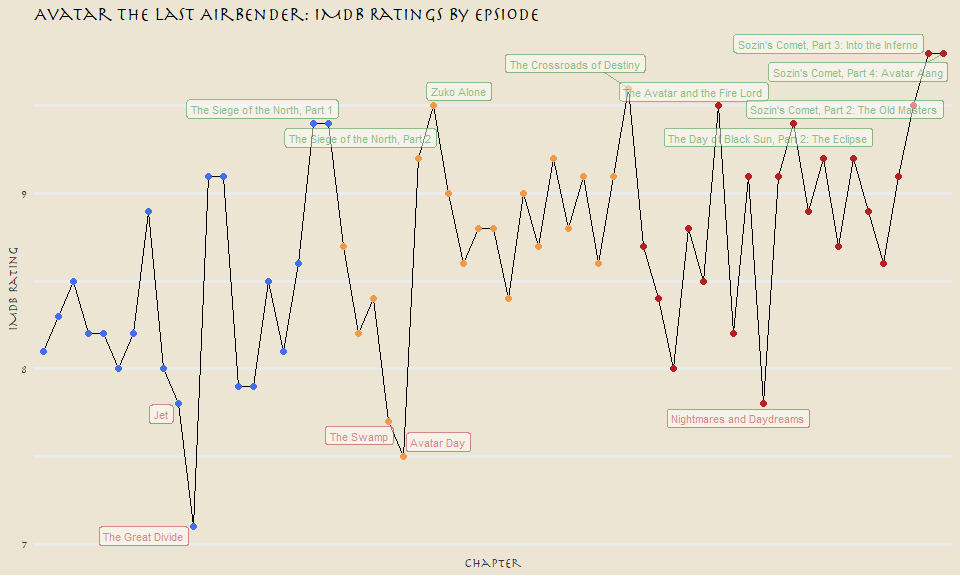
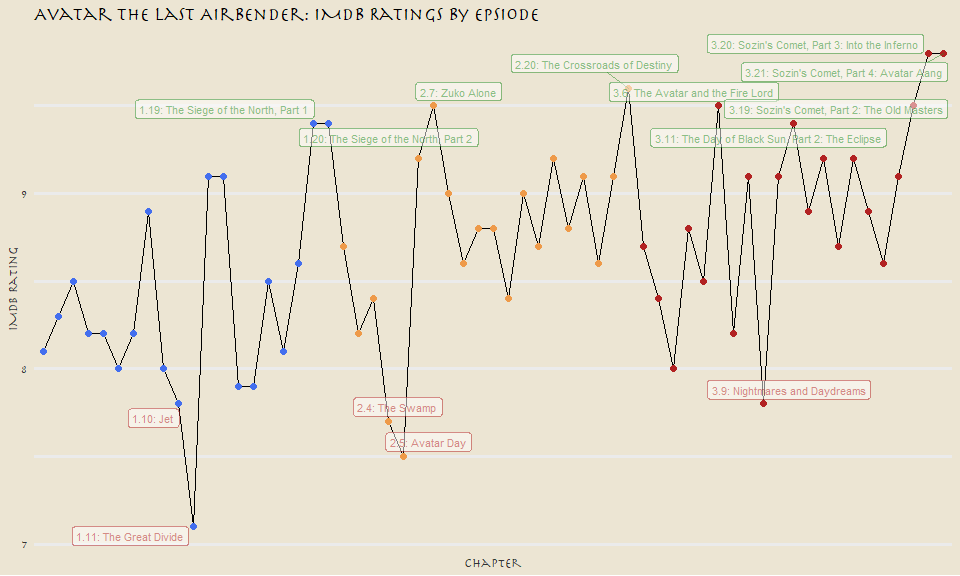
reknit md

diff --git a/avatar_20200811/avatar_analysis.md b/avatar_20200811/avatar_analysis.md
@@ -5,8 +5,8 @@ Nick Cruickshank
 ![](images/astral_avatar.jpg)
 
 The following analysis was performed on the Avatar: the Last Airbender
-script, as compiled by the r4ds tidytuesday community. The core dataset
-(`avatar.csv`), consists of the following variables:
+(ATLA) script, as compiled by the r4ds tidytuesday community. The core
+dataset (`avatar.csv`), consists of the following variables:
 
 | variable         | class     | description                                   |
 | ---------------- | --------- | --------------------------------------------- |
@@ -115,6 +115,9 @@ as_tibble(avatar) %>% head(5)
 #### IMDb Rating Distribution
 
 ``` r
+# font used in Avatar: the Last Airbender
+##font_import(pattern = "herculanum.ttf")
+
 # values to be expressed in the following plot
 # worst episode
 worst_ep <- eps %>%
@@ -164,18 +167,7 @@ eps %>%
 
 ![](avatar_analysis_files/figure-gfm/episode%20breakdown-1.png)<!-- -->
 
-### Director and Writer Analysis
-
-Which directors or writers were associated with the most succesful
-episodes of Avatar?
-
-### “Cabbages” Trending
-
-Track the running joke for the “MY CABBAGES” joke.
-
-### Zuko Transformation Analysis
-
-### IMDb Ratings Over Time
+#### IMDb Ratings Over Time
 
 ``` r
 eps %>%
@@ -190,14 +182,14 @@ eps %>%
   )) +
   ggrepel::geom_label_repel(
     data = filter(eps, imdb_rating >= 9.4),
-    aes(label = chapter),
+    aes(label = paste0(book_num, sep = ".", chapter_num, sep = ": ", chapter)),
     size = 3,
     alpha = 0.5,
     color = "forestgreen"
   ) +
   ggrepel::geom_label_repel(
     data = filter(eps, imdb_rating <= 7.8),
-    aes(label = chapter),
+    aes(label = paste0(book_num, sep = ".", chapter_num, sep = ": ", chapter)),
     size = 3,
     alpha = 0.5,
     color = "firebrick"
@@ -219,10 +211,7 @@ eps %>%
 
 ![](avatar_analysis_files/figure-gfm/ratings%20over%20time-1.png)<!-- -->
 
-## Which characters had the most lines?
-
-For each line of each episode, create a column which counts the number
-of words (excluding stop words?) that line contains.
+### Which characters had the most lines?
 
 ``` r
 # define strings to trim from dataset.
@@ -236,14 +225,19 @@ character_words <- avatar %>%
   dplyr::summarise(
     words = wordcount(character_words)
   )
-  #mutate(words = wordcount(character_words)) #doesn't work right, appears to work within a summarise
 ```
+
+Given that Aang, Katara, and Sokka are the main characters throughout
+the entire series, it is no surprise that they have the most overall
+words spoken throughout the show. Zuko fetured much more prominently in
+Book 3 because (SPOILER) he joined “Team Avatar” and became a good guy.
+Conversely Iroh was featured *less* prominently in Book 3 due in part to
+the direction the story took and in part to the fact that the original
+voice actor [died](https://en.wikipedia.org/wiki/Mako_\(actor\)) and was
+replaced with Greg Baldwin for Book 3.
 
 ``` r
 main_characters <- c("Aang", "Azula", "Iroh", "Katara", "Sokka", "Toph", "Zuko")
-
-#font_import(pattern = "herculanum.ttf", paths = "C:\\Windows\\Fonts\\", prompt = F)
-#font_import(prompt = F)
 
 character_words %>%
   filter(character %in% main_characters) %>%
@@ -264,32 +258,50 @@ character_words %>%
     y = "Total Words"
   ) +
   theme_avatar(title.font = "Herculanum",
-               text.font = "Herculanum")
+               text.font = "Herculanum") + 
+  theme(
+    panel.grid = element_blank()
+  )
 ```
 
 ![](avatar_analysis_files/figure-gfm/word%20count%20distribution-1.png)<!-- -->
 
-### Transcripts
+### TF-IDF Analysis
+
+TF-IDF (term frequency-inverse document frequency) is one of the most
+popular term-weighing schemes used in text mining today. Briefly, it is
+a statistical measure of how import a term is in a document (i.e. the
+lines of a character in a TV show) relatve to the entire corpus
+(i.e. the entire script of that TV show) the document resides in. The
+‘inverse document frequency’ aspect of the measure helps to devalue
+words which appear commonly in general throughout the entire corpus and
+are not specific to any one document. For example, all characters in
+ATLA are likely to use the word “bending” (the magic system in the ATLA
+universe), so that word would be unlikely to have a high TF-IDF score
+for any given characer. In general, the top terms as ranked by TF-IDF
+value can be considered “signature” phrases for that character.
 
 ``` r
+#additional words to add to the list of stop_words
 blacklist <- c("hey", "yeah", "guys", "gonna")
 
+#reshape the dataframe for TF-IDF analysis
 script_words <- avatar %>%
-  add_count(character) %>%
-  filter(n >= 50) %>%
-  select(-full_text) %>%
+  add_count(character) %>% #add a column adding all lines per character
+  filter(n >= 50) %>% #filter out any characters who have too few lines
+  select(-full_text) %>% #trim duplicate less-tidy column for script
   filter(!(grepl(c(intro1,intro2), character_words)),
-         character != "Scene Description") %>%
-  unnest_tokens(word, character_words) %>%
-  anti_join(stop_words, by = "word") %>%
-  filter(!(word %in% blacklist))
+         character != "Scene Description") %>% #filter misleading lines
+  unnest_tokens(word, character_words) %>% #separate each line into individual tokens (words)
+  anti_join(stop_words, by = "word") %>% #remove stopwords
+  filter(!(word %in% blacklist)) #remove extra stopwords
 
 character_tf_idf <- script_words %>%
-  add_count(word) %>%
-  filter(n >= 5) %>%
-  count(word, character) %>%
-  bind_tf_idf(word, character, n) %>%
-  arrange(desc(tf_idf))
+  add_count(word) %>% #add count for how often each word appears
+  filter(n >= 5) %>% #filter out words that occur infrequently
+  count(word, character) %>% #create a column counting each token by character
+  bind_tf_idf(word, character, n) %>% #create TF-IDF scores
+  arrange(desc(tf_idf)) #rearrange rows
 ```
 
 ``` r
@@ -313,60 +325,26 @@ character_tf_idf %>%
     "Water Tribe" = "royalblue2",
     "Air Nomads" = "gold2"
   )) +
+  geom_text(aes(label = round(tf_idf, 3)), size = 2.5, hjust = 1) +
   coord_flip() + 
   scale_x_reordered() +
   facet_wrap(~ character, scales = "free_y", ncol = 4) + 
   labs(
-    title = "TF-IDF Character Analysis",
-    subtitle = "Which words are most specific to each character?",
+    title = "Avatar: the Last Airbender - TF-IDF Character Analysis",
+    subtitle = "What are the signature words for each character?",
     x = "",
     y = "TF-IDF of character-word pairs"
   ) + 
   theme_avatar(title.font = "Herculanum",
                text.font = "Herculanum") + 
   theme(
-    axis.text.x = element_text(angle = 45, hjust = 1)
+    #axis.text.x = element_text(angle = 45, hjust = 1),
+    panel.grid = element_blank(),
+    axis.text.x = element_blank()
   )
 ```
 
 ![](avatar_analysis_files/figure-gfm/tf_idf%20by%20main%20character-1.png)<!-- -->
-
-### Machine learning model
-
-What affects popularity of an episode: - Season/time - Director - Writer
-- Lines per character
-
-``` r
-avatar %>%
-  count(chapter, character) 
-```
-
-    ## # A tibble: 964 x 3
-    ##    chapter          character             n
-    ##    <chr>            <chr>             <int>
-    ##  1 Appa's Lost Days Aang                  4
-    ##  2 Appa's Lost Days Azula                 5
-    ##  3 Appa's Lost Days Farmer                1
-    ##  4 Appa's Lost Days Fire Nation man       3
-    ##  5 Appa's Lost Days Ghashiun              6
-    ##  6 Appa's Lost Days Iio                   1
-    ##  7 Appa's Lost Days Iroh                  1
-    ##  8 Appa's Lost Days Kyoshi Warrior #1     2
-    ##  9 Appa's Lost Days Kyoshi Warrior #2     1
-    ## 10 Appa's Lost Days Mai                   2
-    ## # ... with 954 more rows
-
-Pivot the dataframe wider, so each character gets a column whose values
-are the number of words they had in the episode.
-
-Apply the same logic for each writer and director, but instead the
-column is boolean (i.e. If writer one is in s1e1, than the column value
-is 1 for that episode, else 0).
-
-Train-test split the resulting dataframe, with IMDb rating as the
-y-value.
-
-Assess numerous different models for accuracy.
 
 ## Machine Learning
 
@@ -539,7 +517,7 @@ df %>%
                text.font = "Herculanum")
 ```
 
-![](avatar_analysis_files/figure-gfm/unnamed-chunk-10-1.png)<!-- -->
+![](avatar_analysis_files/figure-gfm/unnamed-chunk-9-1.png)<!-- -->
 
 ## Training the model
 
@@ -592,20 +570,20 @@ lasso_fit %>%
   tidy()
 ```
 
-    ## # A tibble: 2,042 x 5
+    ## # A tibble: 2,546 x 5
     ##    term         step estimate lambda dev.ratio
     ##    <chr>       <dbl>    <dbl>  <dbl>     <dbl>
-    ##  1 (Intercept)     1   8.69    0.359    0     
-    ##  2 (Intercept)     2   8.69    0.327    0.0590
-    ##  3 katara          2  -0.0322  0.327    0.0590
-    ##  4 (Intercept)     3   8.69    0.298    0.108 
-    ##  5 katara          3  -0.0616  0.298    0.108 
-    ##  6 (Intercept)     4   8.69    0.272    0.149 
-    ##  7 katara          4  -0.0883  0.272    0.149 
-    ##  8 (Intercept)     5   8.69    0.247    0.183 
-    ##  9 katara          5  -0.113   0.247    0.183 
-    ## 10 (Intercept)     6   8.69    0.225    0.211 
-    ## # ... with 2,032 more rows
+    ##  1 (Intercept)     1   8.75    0.280    0     
+    ##  2 (Intercept)     2   8.75    0.256    0.0472
+    ##  3 katara          2  -0.0252  0.256    0.0472
+    ##  4 (Intercept)     3   8.75    0.233    0.0863
+    ##  5 katara          3  -0.0481  0.233    0.0863
+    ##  6 (Intercept)     4   8.75    0.212    0.119 
+    ##  7 katara          4  -0.0690  0.212    0.119 
+    ##  8 (Intercept)     5   8.75    0.193    0.146 
+    ##  9 katara          5  -0.0880  0.193    0.146 
+    ## 10 (Intercept)     6   8.75    0.176    0.184 
+    ## # ... with 2,536 more rows
 
 tune the lasso model
 
@@ -646,18 +624,18 @@ lasso_grid %>%
 ```
 
     ## # A tibble: 100 x 6
-    ##     penalty .metric .estimator  mean     n std_err
-    ##       <dbl> <chr>   <chr>      <dbl> <int>   <dbl>
-    ##  1 1.00e-10 rmse    standard   3.35     25  0.696 
-    ##  2 1.00e-10 rsq     standard   0.135    25  0.0274
-    ##  3 1.60e-10 rmse    standard   3.35     25  0.696 
-    ##  4 1.60e-10 rsq     standard   0.135    25  0.0274
-    ##  5 2.56e-10 rmse    standard   3.35     25  0.696 
-    ##  6 2.56e-10 rsq     standard   0.135    25  0.0274
-    ##  7 4.09e-10 rmse    standard   3.35     25  0.696 
-    ##  8 4.09e-10 rsq     standard   0.135    25  0.0274
-    ##  9 6.55e-10 rmse    standard   3.35     25  0.696 
-    ## 10 6.55e-10 rsq     standard   0.135    25  0.0274
+    ##     penalty .metric .estimator   mean     n std_err
+    ##       <dbl> <chr>   <chr>       <dbl> <int>   <dbl>
+    ##  1 1.00e-10 rmse    standard   3.82      25  1.41  
+    ##  2 1.00e-10 rsq     standard   0.0893    25  0.0177
+    ##  3 1.60e-10 rmse    standard   3.82      25  1.41  
+    ##  4 1.60e-10 rsq     standard   0.0893    25  0.0177
+    ##  5 2.56e-10 rmse    standard   3.82      25  1.41  
+    ##  6 2.56e-10 rsq     standard   0.0893    25  0.0177
+    ##  7 4.09e-10 rmse    standard   3.82      25  1.41  
+    ##  8 4.09e-10 rsq     standard   0.0893    25  0.0177
+    ##  9 6.55e-10 rmse    standard   3.82      25  1.41  
+    ## 10 6.55e-10 rsq     standard   0.0893    25  0.0177
     ## # ... with 90 more rows
 
 Visualize the results
@@ -679,11 +657,11 @@ lasso_grid %>%
   theme(legend.position = "none")
 ```
 
-    ## Warning: Removed 2 rows containing missing values (geom_errorbar).
+    ## Warning: Removed 3 rows containing missing values (geom_errorbar).
 
     ## Warning: Removed 2 rows containing missing values (geom_path).
 
-![](avatar_analysis_files/figure-gfm/unnamed-chunk-18-1.png)<!-- -->
+![](avatar_analysis_files/figure-gfm/unnamed-chunk-17-1.png)<!-- -->
 
 select best penalty value
 
@@ -744,5 +722,5 @@ last_fit(
     ## # A tibble: 2 x 3
     ##   .metric .estimator .estimate
     ##   <chr>   <chr>          <dbl>
-    ## 1 rmse    standard       0.438
-    ## 2 rsq     standard       0.231
+    ## 1 rmse    standard       0.619
+    ## 2 rsq     standard       0.631
